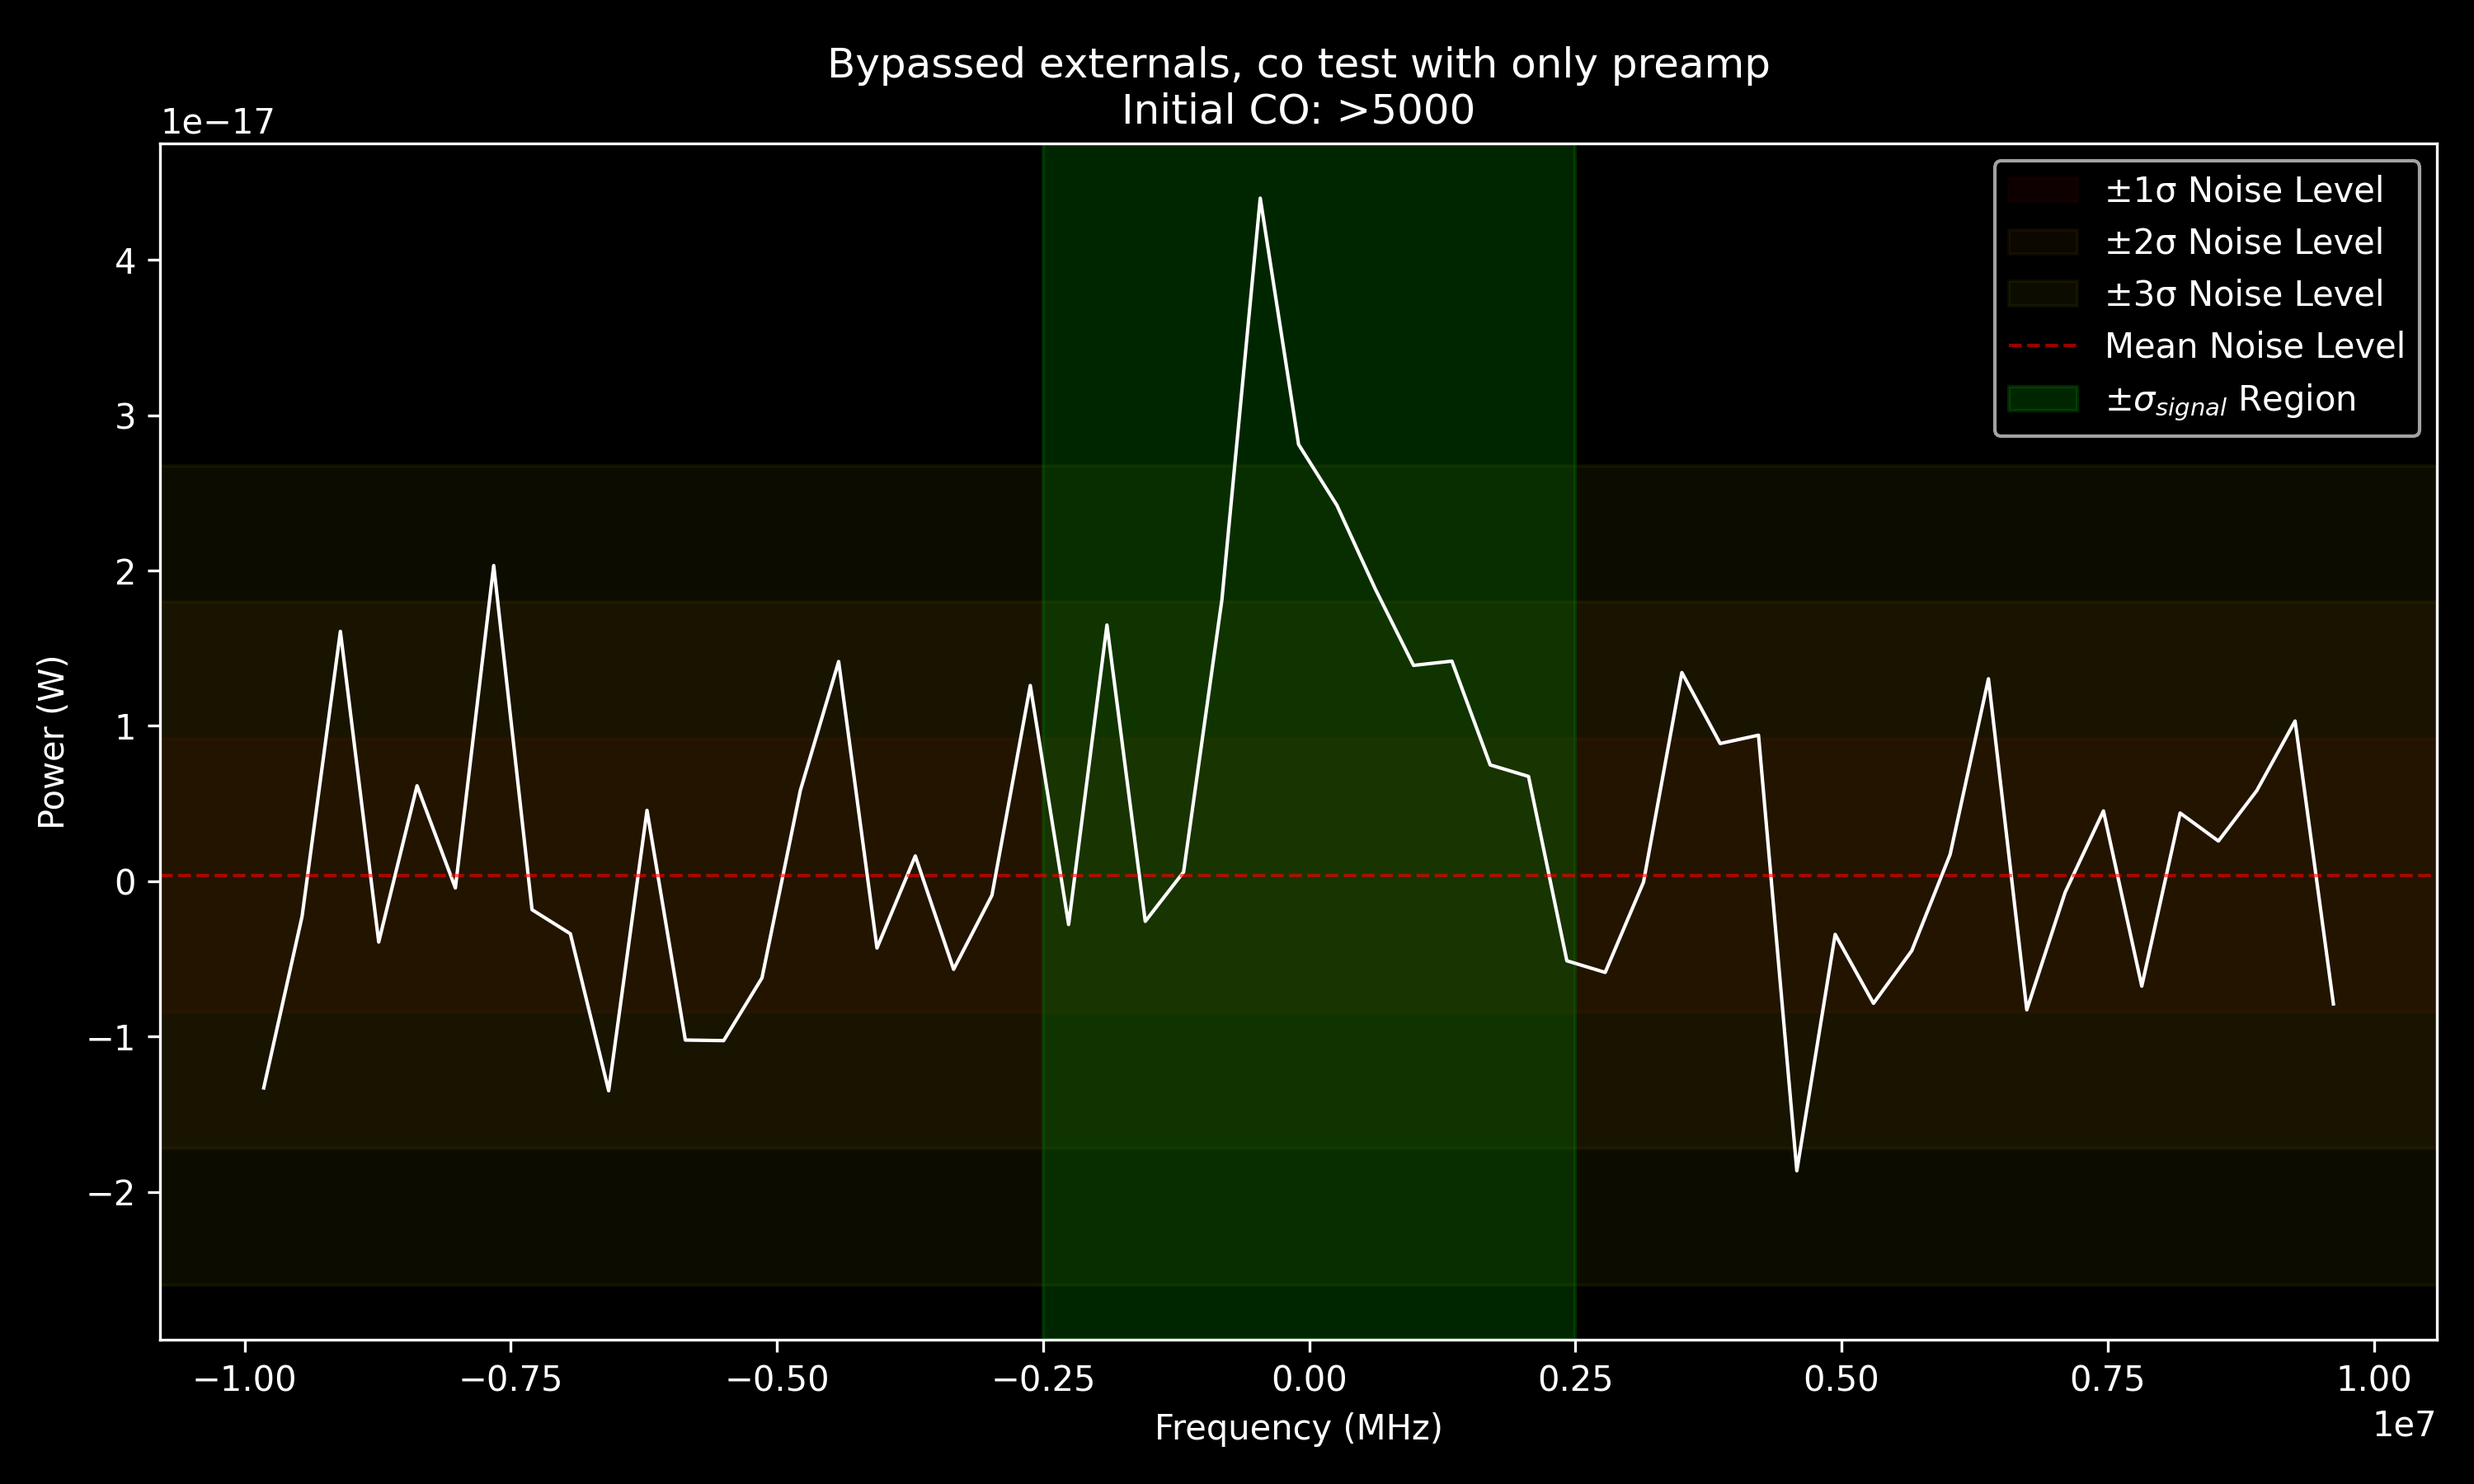
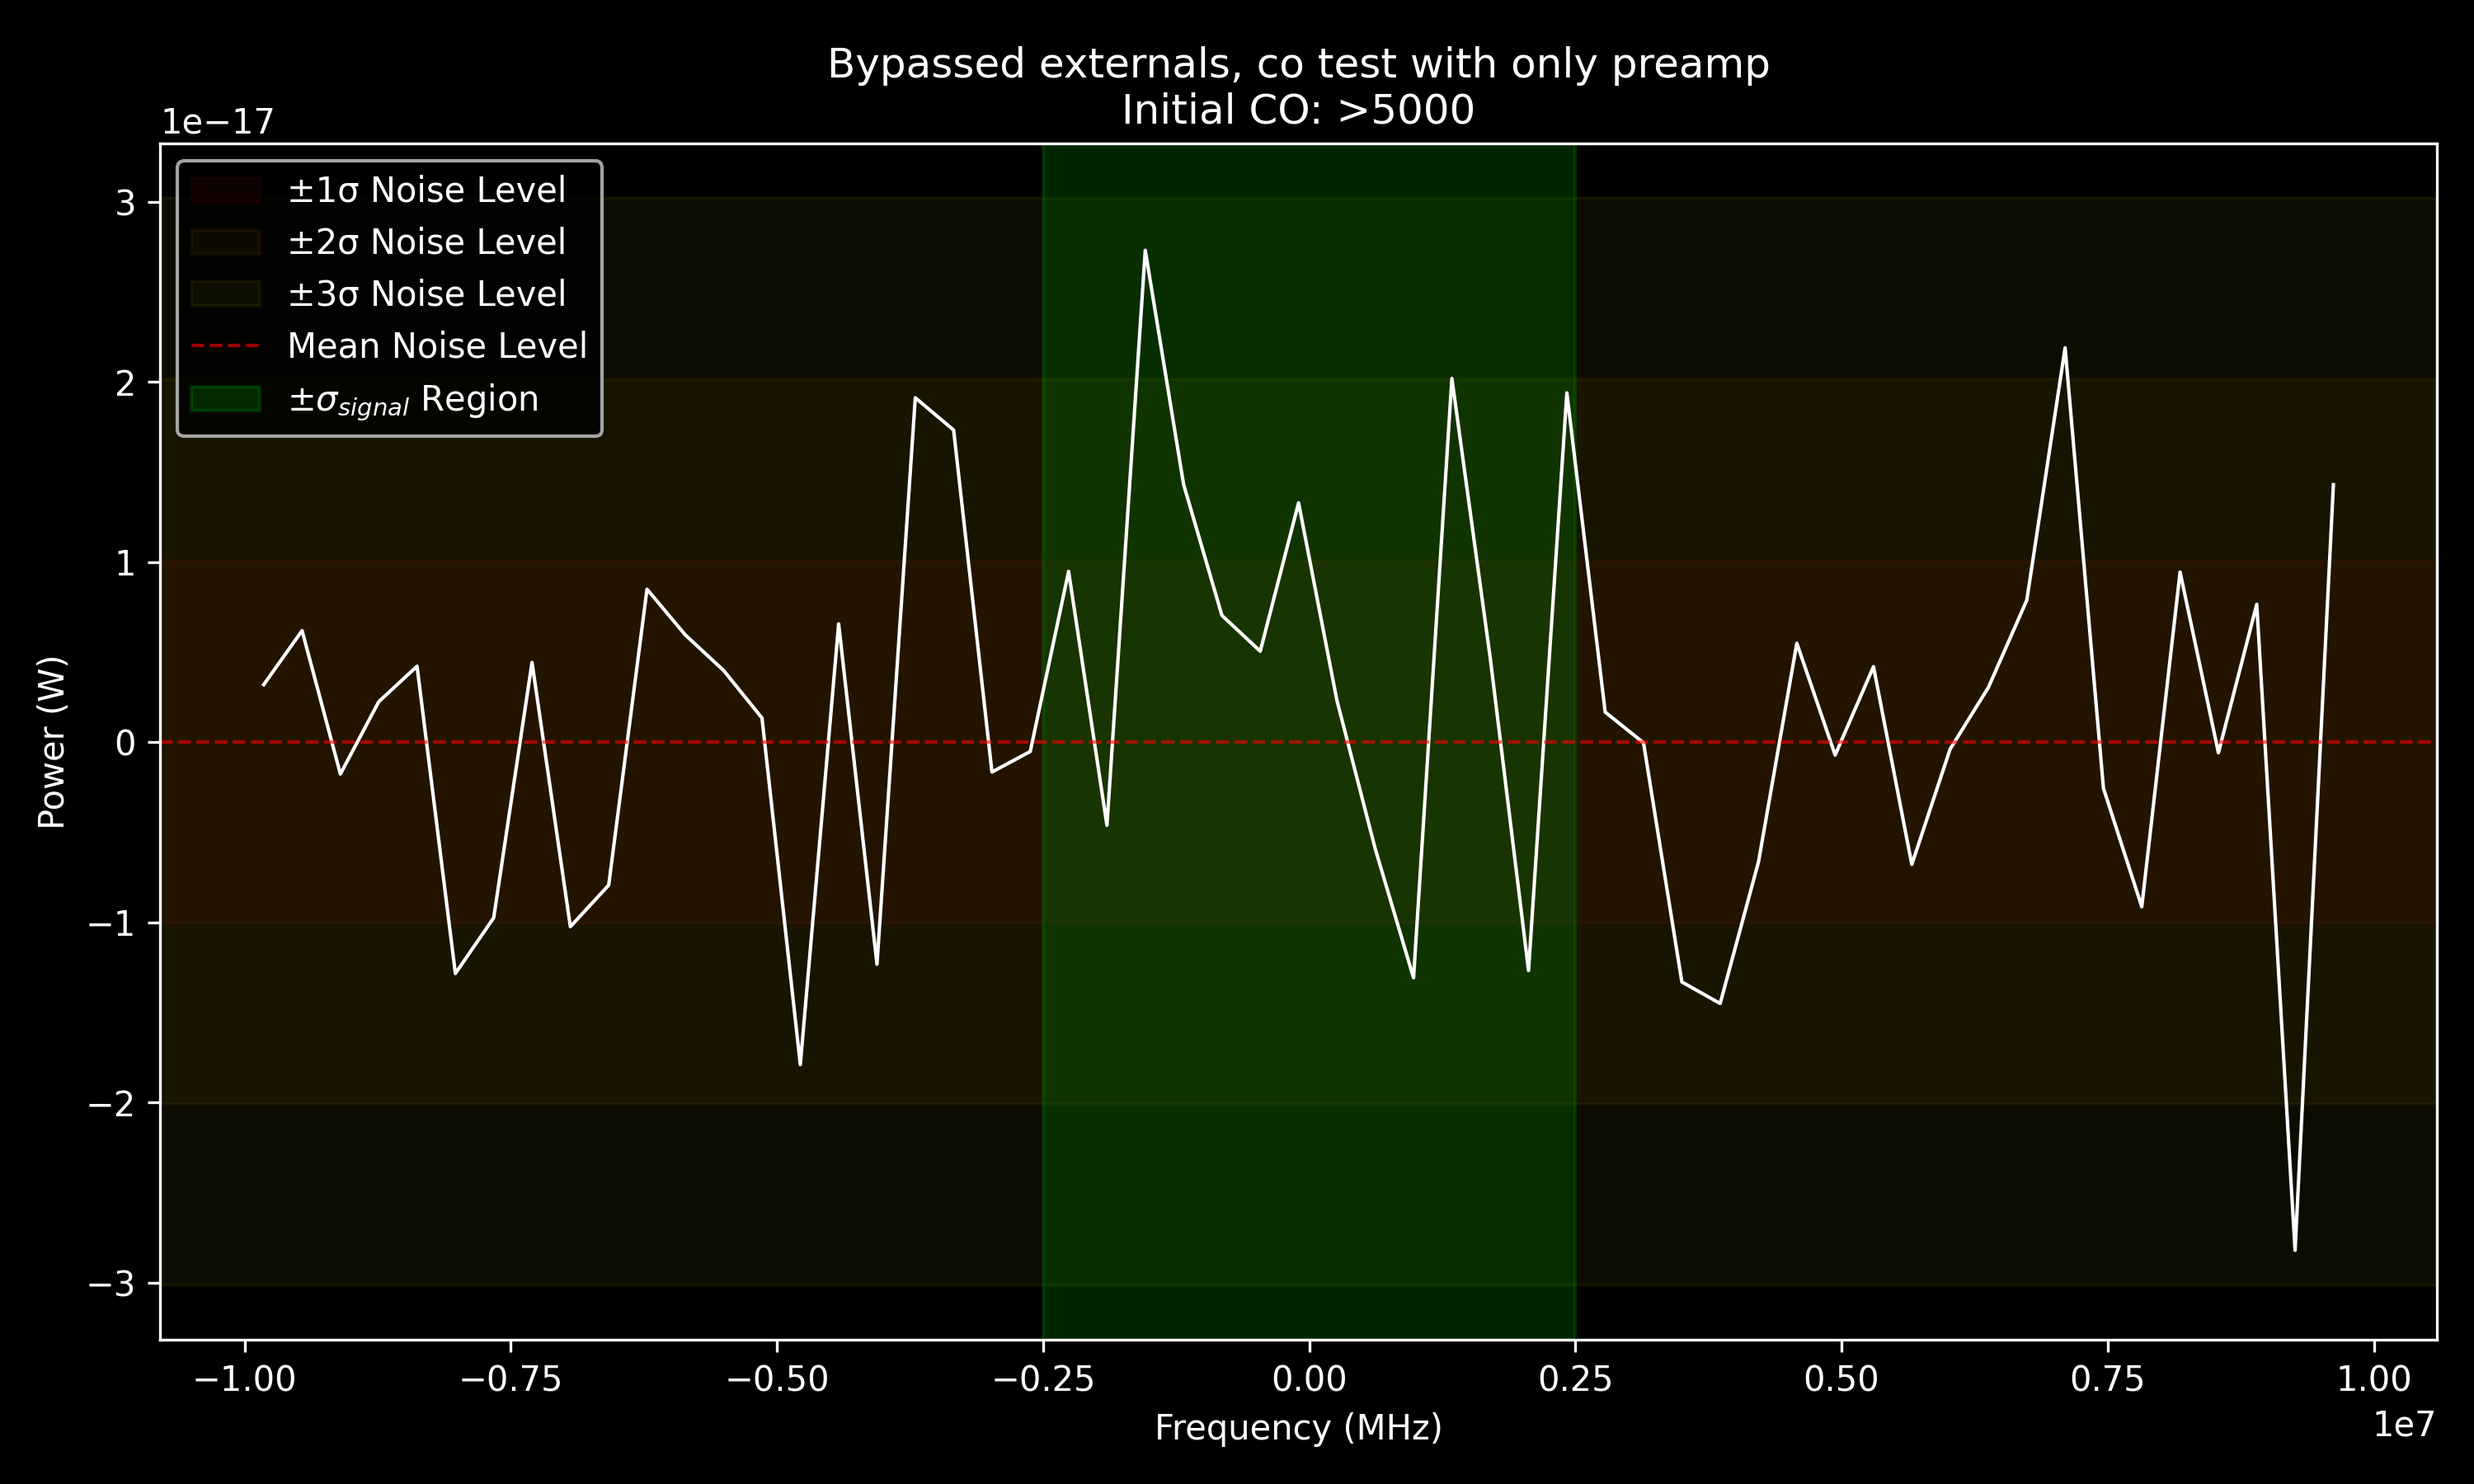
Refactor code structure for improved readability and maintainability

diff --git a/Codebase/Analysis/SignalSim.py b/Codebase/Analysis/SignalSim.py
@@ -42,11 +42,11 @@ class SignalSim:
         
         self.Q = constants['Q']
         self.T = constants['T']
-        self.A_eg = constants['A_eg'] * 0.0001 # convert from s^-1 cm^2 to s^-1 m^2
+        self.A_eg = constants['A_eg'] 
         self.nu = constants['nu']
         self.L = constants['L'] * 0.01 # convert from cm to m
         self.PHI_D = constants['PHI_D']
-        self.A_p = constants['A_p']
+        self.A_p = constants['A_p'] * 0.0001 # convert from cm^2 to m^2
 
     def COPower(self, co_ppm, pressure, CO_bandwidth):
         # Gives the expected power for a given concentration (per measurement)
@@ -186,8 +186,17 @@ def getSimulatedData(powers, freqs, pressures, meta, sim_co=True):
 
     return sim_powers, sim_freqs
 
-def interpolatePressures(pressures, target_length):
+def interpolatePressures(pressures, target_length, sweep_time):
     # assume a linear depressurization
+
+    time_axis = np.arange(0, len(pressures)*sweep_time, sweep_time)
+    pressures_mask = np.isnan(pressures)
+    masked_pressures = pressures[~pressures_mask].astype(float)
+    masked_time_axis = time_axis[~pressures_mask].astype(float)
+
+    coeffs = np.polyfit(masked_time_axis, masked_pressures, 2)
+
+    return np.polyval(coeffs, time_axis)
     
 
 if __name__ == "__main__":
@@ -200,6 +209,10 @@ if __name__ == "__main__":
     args = parser.parse_args()
 
     powers, freqs, pressures, meta = loadData(args.path)
+
+    if np.isnan(pressures).any():
+        print('Pressures contain NaN values, interpolating pressures for simulation...')
+        pressures = interpolatePressures(pressures, powers.shape[1], float(meta.get('Sweep Time (ms)', 4)))
 
     # --- CONSTANTS ---
     constants = {

diff --git a/Codebase/Analysis/Graphing.py b/Codebase/Analysis/Graphing.py
@@ -194,7 +194,7 @@ if __name__ == "__main__":
     parser.add_argument('--sigma', type=float, default=2.5e6)
     parser.add_argument('--save_fig', action='store_true')
     parser.add_argument('--deg', type=int, default=3)
-    parser.add_argument('--n_sub', type=int, default=500)
+    parser.add_argument('--n_sub', type=int, default=1)
     parser.add_argument('--sub', action='store_true')
     parser.add_argument('--bin', action='store_true')
     parser.add_argument('--bin_factor', type=int, default=120)
@@ -213,7 +213,7 @@ if __name__ == "__main__":
     powers, freqs, pressures, meta = loadData(args.path)
 
     # --- TESTING FEATURES ---
-    SIM_DATA = False
+    SIM_DATA = True
     CHANGE_CONCENTRATION = False
     OFFSET_CENTER = False
     TRUNCATE_SIGNAL = False
@@ -223,7 +223,7 @@ if __name__ == "__main__":
     # --- TEST: Interpolate pressures to match number of measurements if needed
     if INTERPOLATE_PRESSURES:
         from SignalSim import interpolatePressures
-        pressures = interpolatePressures(pressures, powers.shape[1])
+        pressures = interpolatePressures(pressures, int(powers.shape[1]), float(meta.get('Sweep Time (ms)', 4)))
 
     # --- TEST: Change initial CO concentration in metadata for testing ---
     if CHANGE_CONCENTRATION:
